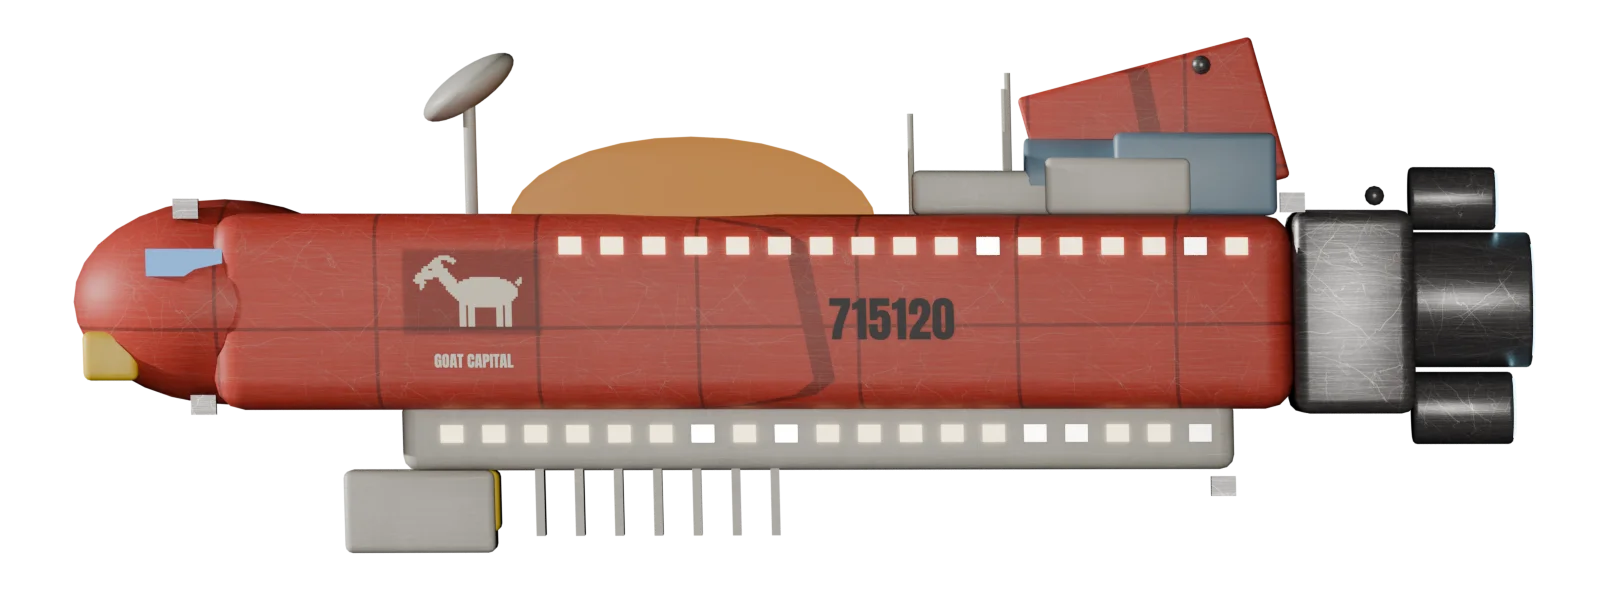
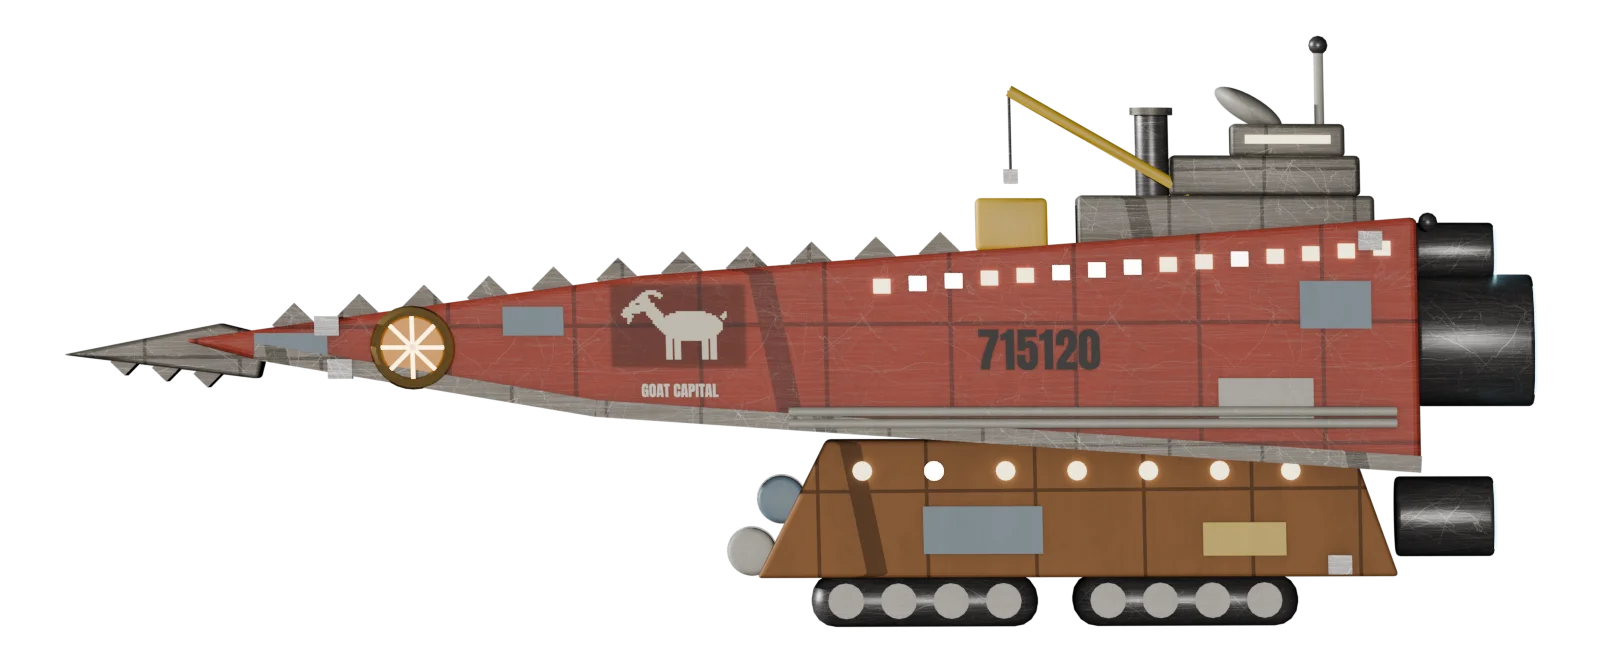
Rebuild the passing ship as a slapped-together crawler, warship and Nautilus
The long round-ended hull read as the wrong thing entirely. GOAT's liner
is now an old ore crawler welded to whatever else was going cheap:

- a riveted dagger of a hull, low at the prow and tall at the stern, with
  a saw-toothed spine and a heavy toothed ram at the prow
- a brass porthole for an eye, with bars across it, glowing amber
- the crawler's slab of a belly underneath, still on its tracks, with
  barrels strapped to its front
- a tower in tiers at the stern with a slit bridge window, a radar dish,
  a mast, an exhaust stack and a crane boom
- patches in mismatched paint, an iron skirt and pipes along the flank,
  and three engines that don't match

The livery, the hull number 715120 at the same size, the nozzles,
thrusters and nav lights all carry over, and cabin.json's ship section is
regenerated, so the live scene's plumes and lights sit on the new shape.

diff --git a/scene/cabin.py b/scene/cabin.py
@@ -2354,74 +2354,143 @@ ship = bpy.data.objects.new("ship", None)
 scene.collection.objects.link(ship)
 ship.matrix_world = Matrix.Translation(ship_place) @ Matrix((tail, flank, tail.cross(flank))).transposed().to_4x4()
 bpy.context.view_layer.update()
-# GOAT Capital's conference liner: an old ore hauler the investors bought
-# cheap and did up, a long battered red hull with whatever they wanted
-# bolted on wherever it fitted. Its bolt-ons are placed by a random number
-# generator of its own, so the rest of the scene's random choices don't move.
-# Parts are placed in its own terms: nose towards -x, the flank the camera
-# sees at -y, up +z. It's built a little larger than it's shown (SHIP_SCALE).
+# GOAT Capital's conference liner, as the investors bought it: an old ore
+# crawler welded to whatever else was going cheap. A riveted dagger of a
+# hull with a saw-toothed spine and a ram at the prow, a brass porthole for an
+# eye, a tower in tiers at the stern, the crawler's slab of a belly still on
+# its tracks underneath, patches and pipes wherever they were needed, and
+# three engines that don't match. Its few random choices come from a random
+# number generator of its own, so the rest of the scene's don't move. Parts
+# are placed in its own terms: nose towards -x, the flank the camera sees at
+# -y, up +z. It's built a little larger than it's shown (SHIP_SCALE).
 SHIP_SCALE = 0.78
 ship.scale = (SHIP_SCALE,) * 3
 bpy.context.view_layer.update()
 bolt_ons = random.Random(715120)
-ship_red = material("ship-red", (0.5, 0.06, 0.045), rough=0.55, grime=0.45, scratches=0.08, dirt=0.45, pattern=grid(0.5, 0.012, (0.26, 0.035, 0.03), axes=("X", "Y", "Z")))
-ship_grey = material("ship-grey", (0.5, 0.5, 0.47), rough=0.5, grime=0.4, scratches=0.25, dirt=0.4)
-ship_dark = material("ship-dark", (0.1, 0.1, 0.11), rough=0.4, metal=0.5, scratches=0.2, dirt=0.3)
+ship_red = material("ship-red", (0.42, 0.06, 0.04), rough=0.6, grime=0.6, scratches=0.1, dirt=0.55, pattern=grid(0.4, 0.014, (0.2, 0.03, 0.025), axes=("X", "Y", "Z")))
+ship_iron = material("ship-iron", (0.16, 0.15, 0.14), rough=0.55, metal=0.4, scratches=0.2, grime=0.5, dirt=0.5, pattern=grid(0.3, 0.012, (0.06, 0.055, 0.05), axes=("X", "Y", "Z")))
+ship_grey = material("ship-grey", (0.45, 0.45, 0.42), rough=0.5, grime=0.5, scratches=0.25, dirt=0.45)
+ship_dark = material("ship-dark", (0.08, 0.08, 0.09), rough=0.4, metal=0.5, scratches=0.2, dirt=0.3)
+ship_brass = material("ship-brass", (0.62, 0.42, 0.16), rough=0.35, metal=0.8, scratches=0.2, grime=0.3)
 ship_glow = material("ship-glow", (0, 0, 0), emit=(0.45, 0.8, 1.0), strength=6)
 ship_lit = material("ship-window", (0, 0, 0), emit=(1.0, 0.82, 0.5), strength=2.5)
 ship_unlit = material("ship-window-dark", (0.03, 0.035, 0.04), rough=0.15)
-ship_paints = [ship_grey, material("ship-yellow", (0.75, 0.55, 0.08), rough=0.5, grime=0.4), material("ship-blue", (0.16, 0.24, 0.32), rough=0.5, grime=0.4), material("ship-rust", (0.35, 0.16, 0.07), rough=0.7, grime=0.5)]
+ship_rust = material("ship-rust", (0.33, 0.16, 0.07), rough=0.75, grime=0.6, dirt=0.5, pattern=grid(0.35, 0.012, (0.15, 0.07, 0.03), axes=("X", "Y", "Z")))
+ship_paints = [ship_grey, material("ship-yellow", (0.7, 0.5, 0.08), rough=0.5, grime=0.5), material("ship-blue", (0.16, 0.24, 0.32), rough=0.5, grime=0.5), ship_rust]
+
+
+def ship_slab(name, outline, width, mat, bevel=0.0):
+	"""A slab of the ship: the (x, z) outline, width deep across it."""
+	shape = bmesh.new()
+	near = [shape.verts.new((x, -width / 2, z)) for x, z in outline]
+	far = [shape.verts.new((x, width / 2, z)) for x, z in outline]
+	shape.faces.new(near)
+	shape.faces.new(far[::-1])
+	for i in range(len(outline)):
+		j = (i + 1) % len(outline)
+		shape.faces.new((near[j], near[i], far[i], far[j]))
+	bmesh.ops.recalc_face_normals(shape, faces=shape.faces)
+	mesh = bpy.data.meshes.new(name)
+	shape.to_mesh(mesh)
+	shape.free()
+	obj = bpy.data.objects.new(name, mesh)
+	scene.collection.objects.link(obj)
+	obj.parent = ship
+	return finish(obj, mat, bevel)
+
+
+# The hull side on: low at the prow, tall at the stern, its flank flat for the
+# livery. hull_top is the height of its top edge along it.
+HULL_TOP = [(-2.9, 0.0), (-1.0, 0.27), (2.25, 0.52)]
+HULL = HULL_TOP + [(2.25, -0.56), (-1.2, -0.32), (-2.6, -0.08)]
+
+
+def hull_top(x):
+	(ax, az), (bx, bz) = HULL_TOP[:2] if x < HULL_TOP[1][0] else HULL_TOP[1:]
+	return az + (bz - az) * (x - ax) / (bx - ax)
+
+
 ship_parts = [
-	box("ship-hull", (0, 0, 0), (4.4, 0.8, 0.8), ship_red, bevel=0.12, parent=ship),
-	box("ship-keel", (0.25, 0, -0.5), (3.4, 0.5, 0.3), ship_grey, bevel=0.06, parent=ship),
-	sphere("ship-nose", (-2.15, 0, 0.04), 1, ship_red, scale=(0.62, 0.4, 0.42), parent=ship),
-	box("ship-cockpit", (-2.25, -0.35, 0.2), (0.42, 0.04, 0.11), material("ship-cockpit", (0.01, 0.015, 0.02), rough=0.5, emit=(0.1, 0.35, 0.75), strength=1.2), parent=ship),
-	box("ship-bumper", (-2.62, 0, -0.18), (0.22, 0.46, 0.2), ship_paints[1], bevel=0.03, parent=ship),
-	sphere("ship-dome", (-0.25, 0, 0.36), 1, material("ship-dome", (0.02, 0.025, 0.03), rough=0.05, emit=(0.9, 0.4, 0.12), strength=0.6), scale=(0.75, 0.32, 0.36), parent=ship),
-	box("ship-fin", (1.65, 0, 0.72), (1.0, 0.05, 0.6), ship_red, rotation=(0, -15, 0), bevel=0.02, parent=ship),
-	box("ship-engine-block", (2.45, 0, 0), (0.5, 0.86, 0.84), ship_dark, bevel=0.06, parent=ship),
+	ship_slab("ship-hull", HULL, 0.82, ship_red, bevel=0.03),
+	# The crawler's belly: sloped above, slab-sided below.
+	ship_slab("ship-belly", [(-0.55, -1.0), (2.15, -1.0), (1.95, -0.42), (-0.25, -0.42)], 0.64, ship_rust, bevel=0.02),
+	# The tower at the stern, in tiers, with the bridge on top.
+	box("ship-tier-0", (1.45, 0, 0.5), (1.25, 0.62, 0.22), ship_iron, bevel=0.02, parent=ship),
+	box("ship-tier-1", (1.62, 0, 0.695), (0.8, 0.46, 0.17), ship_iron, bevel=0.02, parent=ship),
+	box("ship-bridge", (1.72, 0, 0.845), (0.48, 0.3, 0.14), ship_iron, bevel=0.02, parent=ship),
+	box("ship-bridge-window", (1.72, -0.152, 0.85), (0.36, 0.01, 0.035), ship_lit, parent=ship),
+	cylinder("ship-mast", (1.86, 0, 1.075), 0.02, 0.32, ship_grey, parent=ship),
+	sphere("ship-dish", (1.56, 0, 0.98), 0.16, ship_grey, scale=(1, 1, 0.35), rotation=(0, 30, 0), parent=ship),
+	box("ship-crate", (0.55, 0.05, hull_top(0.55) + 0.1), (0.3, 0.4, 0.22), ship_paints[1], bevel=0.02, parent=ship),
 ]
-# Three engines that don't match: a big one in the middle, two small ones
-# above and below. Each ends in a glowing nozzle, where the live scene's
+# Its tracks, still on, two units under the belly with their road wheels showing.
+for i, x in enumerate((0.15, 1.25)):
+	ship_parts.append(box(f"ship-track-{i}", (x, 0, -1.1), (0.95, 0.54, 0.22), ship_dark, bevel=0.1, segments=4, parent=ship))
+	for k in range(4):
+		ship_parts.append(cylinder(f"ship-wheel-{i}-{k}", (x - 0.33 + 0.22 * k, -0.275, -1.1), 0.075, 0.03, ship_grey, rotation=(90, 0, 0), vertices=16, parent=ship))
+# The saw-toothed spine along the top, and the ram at the prow.
+for i in range(11):
+	x = -2.45 + 0.27 * i
+	ship_parts.append(box(f"ship-tooth-{i}", (x, 0, hull_top(x)), (0.13, 0.05, 0.13), ship_iron, rotation=(0, 45, 0), parent=ship))
+ship_parts.append(ship_slab("ship-ram", [(-3.4, -0.06), (-2.75, 0.07), (-2.55, 0.02), (-2.6, -0.16)], 0.36, ship_iron, bevel=0.015))
+for i in range(3):
+	ship_parts.append(box(f"ship-ram-tooth-{i}", (-3.15 + 0.17 * i, 0, -0.09 - 0.025 * i), (0.08, 0.3, 0.08), ship_iron, rotation=(0, 45, 0), parent=ship))
+# The eye: a brass porthole near the prow, glowing, with bars across it.
+EYE = Vector((-1.95, -0.43, -0.03))
+bpy.ops.mesh.primitive_torus_add(major_radius=0.15, minor_radius=0.025, major_segments=32, minor_segments=8, location=EYE, rotation=(math.pi / 2, 0, 0))
+rim = bpy.context.object
+rim.name = "ship-eye-rim"
+rim.parent = ship
+ship_parts.append(finish(rim, ship_brass, smooth=40))
+ship_parts.append(cylinder("ship-eye-glass", EYE + Vector((0, 0.01, 0)), 0.13, 0.01, material("ship-eye", (0.02, 0.02, 0.025), rough=0.6, emit=(1.0, 0.45, 0.1), strength=0.7), rotation=(90, 0, 0), parent=ship))
+for k in range(4):
+	ship_parts.append(box(f"ship-eye-bar-{k}", EYE + Vector((0, -0.005, 0)), (0.27, 0.012, 0.016), ship_brass, rotation=(0, 45 * k, 0), parent=ship))
+# Patches over old damage, in whatever paint was going, and pipes run along
+# the outside.
+for i, (x, z, w, h) in enumerate([(-2.45, -0.02, 0.3, 0.1), (-1.45, 0.08, 0.25, 0.12), (1.6, -0.25, 0.4, 0.18), (1.9, 0.15, 0.3, 0.2), (0.4, -0.8, 0.5, 0.2), (1.5, -0.84, 0.35, 0.14)]):
+	ship_parts.append(box(f"ship-patch-{i}", (x, -0.418 if z > -0.42 else -0.328, z), (w, 0.012, h), bolt_ons.choice(ship_paints), parent=ship))
+for i, z in enumerate((-0.3, -0.35)):
+	ship_parts.append(cylinder(f"ship-pipe-{i}", (0.875, -0.425, z), 0.022, 2.55, ship_grey, rotation=(0, 90, 0), vertices=12, parent=ship))
+# More slapped on: an iron skirt along the hull's bottom edge, tanks strapped
+# against the belly's sloped front, an exhaust stack, and a crane boom off the
+# tower.
+HULL_BOTTOM = [(-2.6, -0.08), (-1.2, -0.32), (2.25, -0.56)]
+for i, ((ax, az), (bx, bz)) in enumerate(zip(HULL_BOTTOM, HULL_BOTTOM[1:])):
+	length = math.hypot(bx - ax, bz - az)
+	ship_parts.append(box(f"ship-skirt-{i}", ((ax + bx) / 2, -0.42, (az + bz) / 2 + 0.035), (length, 0.03, 0.07), ship_iron, rotation=(0, -math.degrees(math.atan2(bz - az, bx - ax)), 0), parent=ship))
+for i, (x, z) in enumerate(((-0.57, -0.89), (-0.44, -0.67))):
+	ship_parts.append(cylinder(f"ship-belly-tank-{i}", (x, -0.05, z), 0.1, 0.5, ship_paints[2 * i], rotation=(90, 0, 0), bevel=0.02, parent=ship))
+	ship_parts.append(cylinder(f"ship-belly-strap-{i}", (x, -0.05, z), 0.105, 0.03, ship_dark, rotation=(90, 0, 0), parent=ship))
+ship_parts.append(cylinder("ship-stack", (1.15, 0.1, 0.78), 0.07, 0.36, ship_dark, bevel=0.01, parent=ship))
+ship_parts.append(cylinder("ship-stack-cap", (1.15, 0.1, 0.97), 0.09, 0.03, ship_iron, parent=ship))
+BOOM = (Vector((1.3, -0.2, 0.62)), Vector((0.55, -0.2, 1.05)))
+ship_parts.append(cylinder("ship-boom", (BOOM[0] + BOOM[1]) / 2, 0.025, (BOOM[1] - BOOM[0]).length, ship_paints[1], rotation=(0, math.degrees(math.atan2(BOOM[1].x - BOOM[0].x, BOOM[1].z - BOOM[0].z)), 0), vertices=10, parent=ship))
+ship_parts.append(cylinder("ship-boom-cable", BOOM[1] - Vector((0, 0, 0.17)), 0.006, 0.34, ship_dark, vertices=6, parent=ship))
+ship_parts.append(box("ship-boom-hook", BOOM[1] - Vector((0, 0, 0.36)), (0.06, 0.03, 0.06), ship_dark, parent=ship))
+# Three engines that don't match: a big one in the middle, a small one above
+# and one off the belly. Each ends in a glowing nozzle, where the live scene's
 # plume starts (SHIP_NOZZLES).
 SHIP_NOZZLES = []
-for i, (z, radius, length) in enumerate([(0.05, 0.28, 0.5), (0.47, 0.13, 0.36), (-0.4, 0.15, 0.42)]):
-	x = 2.7 + length / 2
+for i, (base, z, radius, length) in enumerate([(2.25, 0.0, 0.28, 0.5), (2.25, 0.38, 0.12, 0.34), (2.15, -0.75, 0.17, 0.42)]):
+	x = base + length / 2
 	ship_parts.append(cylinder(f"ship-engine-{i}", (x, 0, z), radius, length, ship_dark, rotation=(0, 90, 0), bevel=0.02, parent=ship))
 	ship_parts.append(cylinder(f"ship-nozzle-{i}", (x + length / 2 + 0.005, 0, z), radius * 0.82, 0.01, ship_glow, rotation=(0, 90, 0), parent=ship))
 	SHIP_NOZZLES.append((Vector((x + length / 2 + 0.01, 0, z)), radius))
-# Bolt-ons: containers, tanks and boxes along the top behind the dome and
-# under the keel, in mismatched paint, a dish on a mast, and antennas.
-for i in range(6):
-	x = bolt_ons.uniform(0.5, 2.0) if i < 4 else bolt_ons.uniform(-1.4, 1.6)
-	top = i < 4
-	size = (bolt_ons.uniform(0.35, 0.75), bolt_ons.uniform(0.3, 0.6), bolt_ons.uniform(0.18, 0.34))
-	z = 0.4 + size[2] / 2 if top else -0.65 - size[2] / 2
-	paint = bolt_ons.choice(ship_paints)
-	if bolt_ons.random() < 0.35:
-		ship_parts.append(cylinder(f"ship-tank-{i}", (x, 0, z), size[2] / 2 + 0.03, size[0], paint, rotation=(0, 90, 0), bevel=0.02, parent=ship))
-	else:
-		ship_parts.append(box(f"ship-module-{i}", (x, 0, z), size, paint, bevel=0.03, parent=ship))
-ship_parts.append(cylinder("ship-mast", (-1.15, 0, 0.62), 0.025, 0.5, ship_grey, parent=ship))
-ship_parts.append(sphere("ship-dish", (-1.15, 0, 0.92), 0.22, ship_grey, scale=(1, 1, 0.35), rotation=(0, -35, 0), parent=ship))
-for i in range(3):
-	x, height = bolt_ons.uniform(-0.9, 1.2), bolt_ons.uniform(0.3, 0.7)
-	ship_parts.append(cylinder(f"ship-antenna-{i}", (x, 0.1, 0.4 + height / 2), 0.012, height, ship_grey, vertices=8, parent=ship))
-for i in range(7):
-	ship_parts.append(box(f"ship-radiator-{i}", (-0.9 + i * 0.16, 0, -0.78), (0.035, 0.42, 0.28), ship_grey, parent=ship))
 # Its attitude thrusters, small blocks the live scene puffs from (SHIP_THRUSTERS).
-SHIP_THRUSTERS = [Vector(at) for at in [(-2.3, -0.2, 0.42), (-2.25, -0.2, -0.38), (2.2, -0.45, 0.45), (1.9, -0.3, -0.72)]]
+SHIP_THRUSTERS = [Vector(at) for at in [(-2.3, -0.42, 0.06), (-2.25, -0.42, -0.12), (2.05, -0.42, 0.42), (1.9, -0.33, -0.95)]]
 for i, at in enumerate(SHIP_THRUSTERS):
 	ship_parts.append(box(f"ship-thruster-{i}", at, (0.1, 0.1, 0.08), ship_dark, parent=ship))
-# Passenger windows along both decks, some lit, some not.
-for deck, (z, y, x_from, x_to) in enumerate([(0.27, -0.405, -0.75, 2.05), (-0.5, -0.255, -1.25, 1.9)]):
-	x = x_from
-	while x < x_to:
-		ship_parts.append(box(f"ship-window-{deck}-{len(ship_parts)}", (x, y, z), (0.09, 0.01, 0.07), ship_lit if bolt_ons.random() < 0.72 else ship_unlit, parent=ship))
-		x += 0.17
-# Navigation lights: red on the nose, green on the fin, a white strobe on
-# the tail. The live scene lights and blinks them (SHIP_LIGHTS).
-SHIP_LIGHTS = [((-2.55, -0.2, -0.05), "red"), ((1.85, -0.03, 1.02), "green"), ((2.55, -0.2, 0.48), "white")]
+# Passenger windows along the top of the flank, and portholes in the belly,
+# some lit, some not.
+x = 0.0
+while x < 2.1:
+	ship_parts.append(box(f"ship-window-{len(ship_parts)}", (x, -0.415, hull_top(x) - 0.12), (0.07, 0.01, 0.06), ship_lit if bolt_ons.random() < 0.7 else ship_unlit, parent=ship))
+	x += 0.15
+for i in range(7):
+	ship_parts.append(cylinder(f"ship-porthole-{i}", (-0.1 + 0.3 * i, -0.33, -0.55), 0.04, 0.012, ship_lit if bolt_ons.random() < 0.6 else ship_unlit, rotation=(90, 0, 0), vertices=16, parent=ship))
+# Navigation lights: red at the prow, green on the mast, a white strobe on the
+# stern. The live scene lights and blinks them (SHIP_LIGHTS).
+SHIP_LIGHTS = [((-2.88, -0.06, 0.0), "red"), ((1.86, 0, 1.25), "green"), ((2.3, -0.3, 0.5), "white")]
 for i, (at, colour) in enumerate(SHIP_LIGHTS):
 	ship_parts.append(sphere(f"ship-light-{colour}", at, 0.04, ship_dark, segments=12, parent=ship))
 # The livery: the hull number large on the flank, and GOAT Capital's name
@@ -2471,7 +2540,7 @@ logo_texture.image = bpy.data.images.load(goat_picture(os.path.join(ROOT, "scene
 logo_bsdf = logo.node_tree.nodes["Principled BSDF"]
 logo.node_tree.links.new(logo_texture.outputs["Color"], logo_bsdf.inputs["Base Color"])
 logo.node_tree.links.new(logo_texture.outputs["Alpha"], logo_bsdf.inputs["Alpha"])
-bpy.ops.mesh.primitive_plane_add(size=1, location=(-1.15, -0.406, 0.08), rotation=(math.pi / 2, 0, 0))
+bpy.ops.mesh.primitive_plane_add(size=1, location=(-0.85, -0.416, 0.06), rotation=(math.pi / 2, 0, 0))
 goat_decal = bpy.context.object
 goat_decal.name = "ship-logo"
 goat_decal.scale = (0.56, 0.35, 1)
@@ -2479,7 +2548,7 @@ goat_decal.data.materials.append(logo)
 goat_decal.parent = ship
 ship_parts.append(goat_decal)
 paint_white = material("ship-white", (0.9, 0.88, 0.82), rough=0.6)
-for name, text, at, size, paint in [("ship-name", "GOAT CAPITAL", (-1.15, -0.407, -0.2), 0.11, paint_white), ("ship-number", "715120", (0.55, -0.407, -0.03), 0.34, material("ship-ink", (0.03, 0.03, 0.035), rough=0.6))]:
+for name, text, at, size, paint in [("ship-name", "GOAT CAPITAL", (-0.85, -0.417, -0.21), 0.11, paint_white), ("ship-number", "715120", (0.65, -0.417, -0.04), 0.34, material("ship-ink", (0.03, 0.03, 0.035), rough=0.6))]:
 	lettering = stencil(name, text, at, (0, -1, 0), size, paint, typeface=anton)
 	lettering.parent = ship
 	ship_parts.append(lettering)
